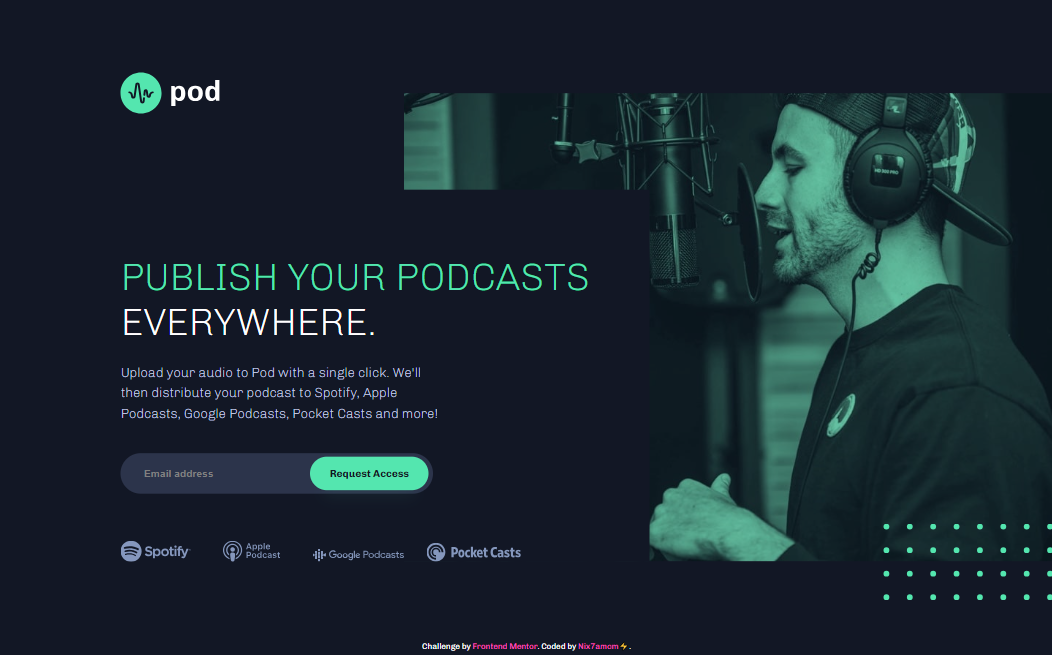
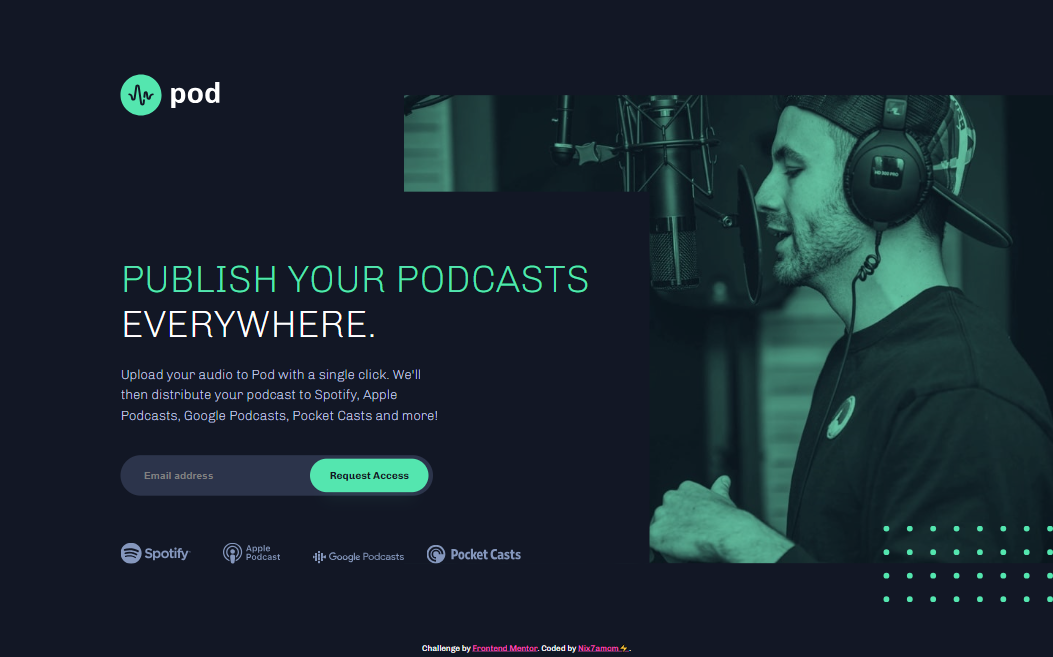
🔧 Fix accessibility of footer links
- Remove no decoration for footer links to improve accessibility
- Update solution images

diff --git a/css/style.css b/css/style.css
@@ -655,7 +655,7 @@ footer {
 
 footer a {
   color: var(--fc-footer-a);
-  text-decoration: none;
+  text-decoration: underline;
 }
 
 footer a:hover {
